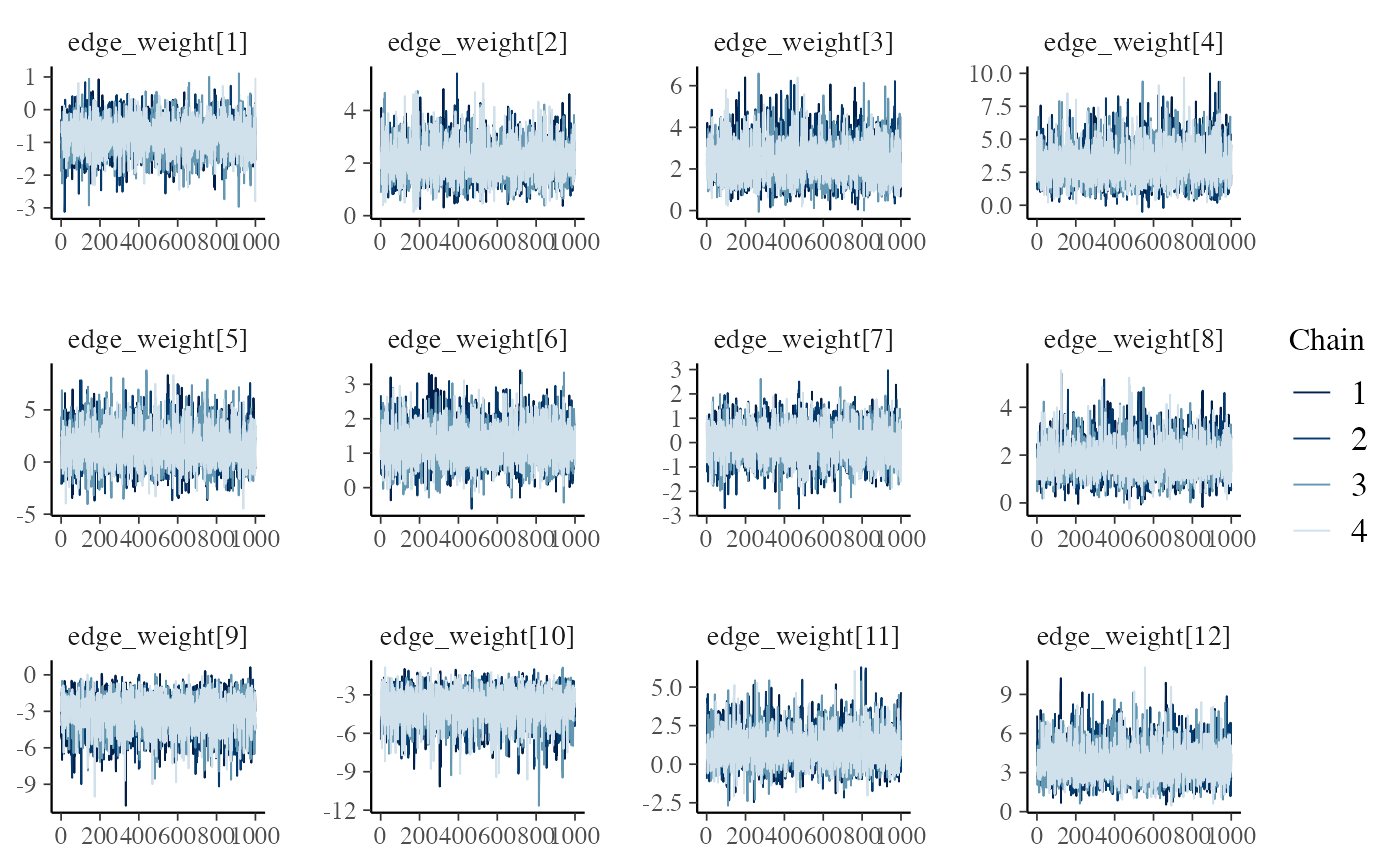
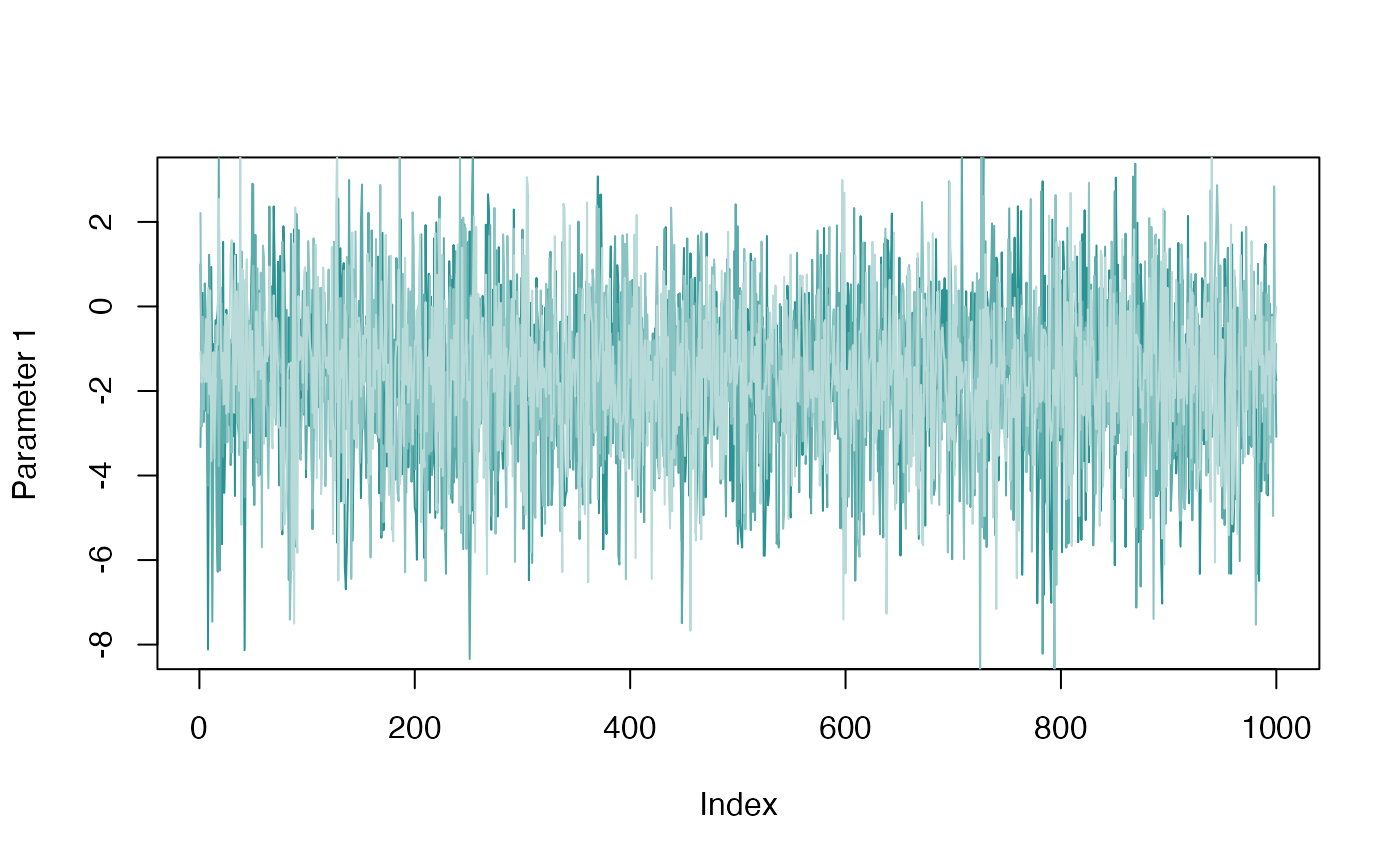
Improved plots and color scheme.

diff --git a/docs/articles/getting_started.html b/docs/articles/getting_started.html
@@ -33,7 +33,7 @@
     
     <a class="navbar-brand me-2" href="../index.html">bisonR</a>
 
-    <small class="nav-text text-muted me-auto" data-bs-toggle="tooltip" data-bs-placement="bottom" title="">0.1.0</small>
+    <small class="nav-text text-muted me-auto" data-bs-toggle="tooltip" data-bs-placement="bottom" title="">0.2.0</small>
 
     
     <button class="navbar-toggler" type="button" data-bs-toggle="collapse" data-bs-target="#navbar" aria-controls="navbar" aria-expanded="false" aria-label="Toggle navigation">
@@ -108,8 +108,8 @@ following code:</p>
 <span class="co">#&gt; Loading required package: cmdstanr</span>
 <span class="co">#&gt; This is cmdstanr version 0.5.2</span>
 <span class="co">#&gt; - CmdStanR documentation and vignettes: mc-stan.org/cmdstanr</span>
-<span class="co">#&gt; - CmdStan path: /Users/jordan/.cmdstan/cmdstan-2.29.2</span>
-<span class="co">#&gt; - CmdStan version: 2.29.2</span>
+<span class="co">#&gt; - CmdStan path: /Users/jordan/.cmdstan/cmdstan-2.30.0</span>
+<span class="co">#&gt; - CmdStan version: 2.30.0</span>
 <span class="kw"><a href="https://rdrr.io/r/base/library.html" class="external-link">library</a></span><span class="op">(</span><span class="va"><a href="https://dplyr.tidyverse.org" class="external-link">dplyr</a></span><span class="op">)</span>
 <span class="co">#&gt; </span>
 <span class="co">#&gt; Attaching package: 'dplyr'</span>
@@ -130,13 +130,13 @@ included.</p>
 <code class="sourceCode R"><span class="va">sim_data</span> <span class="op">&lt;-</span> <span class="fu"><a href="../reference/simulate_edge_model.html">simulate_edge_model</a></span><span class="op">(</span><span class="st">"binary"</span>, aggregated <span class="op">=</span> <span class="cn">FALSE</span><span class="op">)</span>
 <span class="va">df</span> <span class="op">&lt;-</span> <span class="va">sim_data</span><span class="op">$</span><span class="va">df_sim</span>
 <span class="fu"><a href="https://rdrr.io/r/utils/head.html" class="external-link">head</a></span><span class="op">(</span><span class="va">df</span><span class="op">)</span>
-<span class="co">#&gt;   event node_1_id node_2_id   age_diff   age_1    age_2 location duration</span>
-<span class="co">#&gt; 1     1         1         2 -0.4548211 21.7542 22.20902        2        1</span>
-<span class="co">#&gt; 2     0         1         2 -0.4548211 21.7542 22.20902        2        1</span>
-<span class="co">#&gt; 3     1         1         2 -0.4548211 21.7542 22.20902        3        1</span>
-<span class="co">#&gt; 4     0         1         2 -0.4548211 21.7542 22.20902        3        1</span>
-<span class="co">#&gt; 5     0         1         2 -0.4548211 21.7542 22.20902        2        1</span>
-<span class="co">#&gt; 6     0         1         2 -0.4548211 21.7542 22.20902        4        1</span></code></pre></div>
+<span class="co">#&gt;   event node_1_id node_2_id  age_diff    age_1    age_2 location duration</span>
+<span class="co">#&gt; 1     0         1         2 -3.223550 16.52894 19.75249        5        1</span>
+<span class="co">#&gt; 2     0         1         3 -4.748927 16.52894 21.27787        4        1</span>
+<span class="co">#&gt; 3     0         1         3 -4.748927 16.52894 21.27787        4        1</span>
+<span class="co">#&gt; 4     0         1         3 -4.748927 16.52894 21.27787        3        1</span>
+<span class="co">#&gt; 5     1         1         4 -4.358646 16.52894 20.88759        1        1</span>
+<span class="co">#&gt; 6     0         1         4 -4.358646 16.52894 20.88759        4        1</span></code></pre></div>
 </div>
 <div class="section level2">
 <h2 id="edge-models">Edge Models<a class="anchor" aria-label="anchor" href="#edge-models"></a>
@@ -176,7 +176,7 @@ normal distribution with mean zero and standard deviation 1 is not
 appropriate for the fixed effects, and we’d prefer a standard deviation
 of 2, we can change this using the following code:</p>
 <div class="sourceCode" id="cb5"><pre class="downlit sourceCode r">
-<code class="sourceCode R"><span class="va">priors</span><span class="op">$</span><span class="va">fixed</span> <span class="op">&lt;-</span> <span class="st">"normal(0, 2.5)"</span>
+<code class="sourceCode R"><span class="va">priors</span><span class="op">$</span><span class="va">edge</span> <span class="op">&lt;-</span> <span class="st">"normal(0, 2.5)"</span>
 <span class="va">priors</span>
 <span class="co">#&gt; $edge</span>
 <span class="co">#&gt; [1] "normal(0, 2.5)"</span>
@@ -228,40 +228,19 @@ weight model:</p>
 <code class="sourceCode R"><span class="va">fit_edge</span> <span class="op">&lt;-</span> <span class="fu"><a href="../reference/edge_model.html">edge_model</a></span><span class="op">(</span>
   <span class="op">(</span><span class="va">event</span> <span class="op">|</span> <span class="va">duration</span><span class="op">)</span> <span class="op">~</span> <span class="fu">dyad</span><span class="op">(</span><span class="va">node_1_id</span>, <span class="va">node_2_id</span><span class="op">)</span>, 
   data<span class="op">=</span><span class="va">df</span>, 
-  data_type<span class="op">=</span><span class="st">"binary"</span>, 
+  data_type<span class="op">=</span><span class="st">"binary"</span>,
   priors<span class="op">=</span><span class="va">priors</span>
 <span class="op">)</span>
-<span class="co">#&gt; $prior_edge_mu</span>
-<span class="co">#&gt; [1] 0</span>
-<span class="co">#&gt; </span>
-<span class="co">#&gt; $prior_edge_sigma</span>
-<span class="co">#&gt; [1] 2.5</span>
-<span class="co">#&gt; </span>
-<span class="co">#&gt; $prior_fixed_mu</span>
-<span class="co">#&gt; [1] 0</span>
-<span class="co">#&gt; </span>
-<span class="co">#&gt; $prior_fixed_sigma</span>
-<span class="co">#&gt; [1] 2.5</span>
-<span class="co">#&gt; </span>
-<span class="co">#&gt; $prior_random_mean_mu</span>
-<span class="co">#&gt; [1] 0</span>
-<span class="co">#&gt; </span>
-<span class="co">#&gt; $prior_random_mean_sigma</span>
-<span class="co">#&gt; [1] 1</span>
-<span class="co">#&gt; </span>
-<span class="co">#&gt; $prior_random_std_sigma</span>
-<span class="co">#&gt; [1] 1</span>
-<span class="co">#&gt; </span>
 <span class="co">#&gt; Running MCMC with 4 parallel chains...</span>
 <span class="co">#&gt; </span>
-<span class="co">#&gt; Chain 3 finished in 0.6 seconds.</span>
-<span class="co">#&gt; Chain 4 finished in 0.6 seconds.</span>
-<span class="co">#&gt; Chain 1 finished in 0.6 seconds.</span>
-<span class="co">#&gt; Chain 2 finished in 0.6 seconds.</span>
+<span class="co">#&gt; Chain 1 finished in 0.2 seconds.</span>
+<span class="co">#&gt; Chain 2 finished in 0.2 seconds.</span>
+<span class="co">#&gt; Chain 3 finished in 0.2 seconds.</span>
+<span class="co">#&gt; Chain 4 finished in 0.2 seconds.</span>
 <span class="co">#&gt; </span>
 <span class="co">#&gt; All 4 chains finished successfully.</span>
-<span class="co">#&gt; Mean chain execution time: 0.6 seconds.</span>
-<span class="co">#&gt; Total execution time: 0.9 seconds.</span></code></pre></div>
+<span class="co">#&gt; Mean chain execution time: 0.2 seconds.</span>
+<span class="co">#&gt; Total execution time: 0.6 seconds.</span></code></pre></div>
 <p>Depending on your dataset this can take anywhere between a few tenths
 of a second and several hours. In particular if you have a large dataset
 and no observation-level predictors, it’s probably a good idea to use
@@ -276,7 +255,7 @@ checking the traceplots to check the MCMC chains have converged. The
 chains should be well-mixed and look something like a fuzzy caterpillar.
 We can check for this using the <code><a href="../reference/plot_trace.html">plot_trace()</a></code> function:</p>
 <div class="sourceCode" id="cb7"><pre class="downlit sourceCode r">
-<code class="sourceCode R"><span class="fu"><a href="../reference/plot_trace.html">plot_trace</a></span><span class="op">(</span><span class="va">fit_edge</span><span class="op">)</span></code></pre></div>
+<code class="sourceCode R"><span class="fu"><a href="../reference/plot_trace.html">plot_trace</a></span><span class="op">(</span><span class="va">fit_edge</span>, par_ids<span class="op">=</span><span class="fl">1</span><span class="op">)</span></code></pre></div>
 <p><img src="getting_started_files/figure-html/unnamed-chunk-7-1.png" width="700"></p>
 <p>If we’re satisfied that the MCMC algorithm has done its job properly,
 then it’s time to see if the same is true for the model. One way to do
@@ -308,51 +287,51 @@ can use the <code><a href="https://mc-stan.org/cmdstanr/reference/fit-method-sum
 <span class="co">#&gt; Directed: FALSE</span>
 <span class="co">#&gt; === Edge list summary ===</span>
 <span class="co">#&gt;          median    5%   95%</span>
-<span class="co">#&gt; 1 &lt;-&gt; 2   0.313 0.154 0.509</span>
-<span class="co">#&gt; 1 &lt;-&gt; 3   0.888 0.742 0.967</span>
-<span class="co">#&gt; 2 &lt;-&gt; 3   0.912 0.740 0.984</span>
-<span class="co">#&gt; 1 &lt;-&gt; 4   0.955 0.765 0.997</span>
-<span class="co">#&gt; 2 &lt;-&gt; 4   0.821 0.217 0.992</span>
-<span class="co">#&gt; 3 &lt;-&gt; 4   0.779 0.594 0.905</span>
-<span class="co">#&gt; 1 &lt;-&gt; 5   0.499 0.239 0.766</span>
-<span class="co">#&gt; 2 &lt;-&gt; 5   0.862 0.685 0.962</span>
-<span class="co">#&gt; 3 &lt;-&gt; 5   0.047 0.002 0.246</span>
-<span class="co">#&gt; 4 &lt;-&gt; 5   0.022 0.002 0.112</span>
-<span class="co">#&gt; 1 &lt;-&gt; 6   0.737 0.350 0.959</span>
-<span class="co">#&gt; 2 &lt;-&gt; 6   0.975 0.870 0.998</span>
-<span class="co">#&gt; 3 &lt;-&gt; 6   0.034 0.003 0.188</span>
-<span class="co">#&gt; 4 &lt;-&gt; 6   0.029 0.002 0.142</span>
-<span class="co">#&gt; 5 &lt;-&gt; 6   0.876 0.710 0.966</span>
-<span class="co">#&gt; 1 &lt;-&gt; 7   0.952 0.724 0.997</span>
-<span class="co">#&gt; 2 &lt;-&gt; 7   0.888 0.407 0.995</span>
-<span class="co">#&gt; 3 &lt;-&gt; 7   0.442 0.213 0.700</span>
-<span class="co">#&gt; 4 &lt;-&gt; 7   0.069 0.012 0.205</span>
-<span class="co">#&gt; 5 &lt;-&gt; 7   0.950 0.733 0.997</span>
-<span class="co">#&gt; 6 &lt;-&gt; 7   0.877 0.642 0.978</span>
-<span class="co">#&gt; 1 &lt;-&gt; 8   0.388 0.214 0.586</span>
-<span class="co">#&gt; 2 &lt;-&gt; 8   0.023 0.002 0.113</span>
-<span class="co">#&gt; 3 &lt;-&gt; 8   0.177 0.008 0.771</span>
-<span class="co">#&gt; 4 &lt;-&gt; 8   0.020 0.002 0.100</span>
-<span class="co">#&gt; 5 &lt;-&gt; 8   0.115 0.006 0.575</span>
-<span class="co">#&gt; 6 &lt;-&gt; 8   0.152 0.025 0.438</span>
-<span class="co">#&gt; 7 &lt;-&gt; 8   0.107 0.006 0.560</span>
-<span class="co">#&gt; 1 &lt;-&gt; 9   0.849 0.566 0.972</span>
-<span class="co">#&gt; 2 &lt;-&gt; 9   0.972 0.847 0.998</span>
-<span class="co">#&gt; 3 &lt;-&gt; 9   0.031 0.002 0.160</span>
-<span class="co">#&gt; 4 &lt;-&gt; 9   0.026 0.002 0.140</span>
-<span class="co">#&gt; 5 &lt;-&gt; 9   0.973 0.869 0.998</span>
-<span class="co">#&gt; 6 &lt;-&gt; 9   0.066 0.004 0.358</span>
-<span class="co">#&gt; 7 &lt;-&gt; 9   0.336 0.103 0.653</span>
-<span class="co">#&gt; 8 &lt;-&gt; 9   0.816 0.200 0.993</span>
-<span class="co">#&gt; 1 &lt;-&gt; 10  0.923 0.773 0.986</span>
-<span class="co">#&gt; 2 &lt;-&gt; 10  0.977 0.871 0.998</span>
-<span class="co">#&gt; 3 &lt;-&gt; 10  0.472 0.287 0.665</span>
-<span class="co">#&gt; 4 &lt;-&gt; 10  0.506 0.154 0.845</span>
-<span class="co">#&gt; 5 &lt;-&gt; 10  0.847 0.693 0.946</span>
-<span class="co">#&gt; 6 &lt;-&gt; 10  0.698 0.438 0.887</span>
-<span class="co">#&gt; 7 &lt;-&gt; 10  0.085 0.005 0.446</span>
-<span class="co">#&gt; 8 &lt;-&gt; 10  0.978 0.894 0.999</span>
-<span class="co">#&gt; 9 &lt;-&gt; 10  0.939 0.827 0.988</span></code></pre></div>
+<span class="co">#&gt; 1 &lt;-&gt; 2   0.170 0.007 0.805</span>
+<span class="co">#&gt; 1 &lt;-&gt; 3   0.084 0.004 0.467</span>
+<span class="co">#&gt; 2 &lt;-&gt; 3   0.263 0.046 0.658</span>
+<span class="co">#&gt; 1 &lt;-&gt; 4   0.340 0.062 0.762</span>
+<span class="co">#&gt; 2 &lt;-&gt; 4   0.653 0.226 0.942</span>
+<span class="co">#&gt; 3 &lt;-&gt; 4   0.259 0.043 0.650</span>
+<span class="co">#&gt; 1 &lt;-&gt; 5   0.403 0.121 0.745</span>
+<span class="co">#&gt; 2 &lt;-&gt; 5   0.824 0.220 0.991</span>
+<span class="co">#&gt; 3 &lt;-&gt; 5   0.735 0.351 0.958</span>
+<span class="co">#&gt; 4 &lt;-&gt; 5   0.349 0.065 0.769</span>
+<span class="co">#&gt; 1 &lt;-&gt; 6   0.071 0.004 0.384</span>
+<span class="co">#&gt; 2 &lt;-&gt; 6   0.344 0.062 0.768</span>
+<span class="co">#&gt; 3 &lt;-&gt; 6   0.652 0.235 0.945</span>
+<span class="co">#&gt; 4 &lt;-&gt; 6   0.735 0.353 0.955</span>
+<span class="co">#&gt; 5 &lt;-&gt; 6   0.653 0.225 0.945</span>
+<span class="co">#&gt; 1 &lt;-&gt; 7   0.071 0.004 0.387</span>
+<span class="co">#&gt; 2 &lt;-&gt; 7   0.058 0.003 0.312</span>
+<span class="co">#&gt; 3 &lt;-&gt; 7   0.112 0.005 0.565</span>
+<span class="co">#&gt; 4 &lt;-&gt; 7   0.058 0.004 0.317</span>
+<span class="co">#&gt; 5 &lt;-&gt; 7   0.068 0.004 0.354</span>
+<span class="co">#&gt; 6 &lt;-&gt; 7   0.506 0.096 0.910</span>
+<span class="co">#&gt; 1 &lt;-&gt; 8   0.183 0.008 0.784</span>
+<span class="co">#&gt; 2 &lt;-&gt; 8   0.210 0.035 0.567</span>
+<span class="co">#&gt; 3 &lt;-&gt; 8   0.829 0.222 0.993</span>
+<span class="co">#&gt; 4 &lt;-&gt; 8   0.497 0.159 0.834</span>
+<span class="co">#&gt; 5 &lt;-&gt; 8   0.505 0.089 0.910</span>
+<span class="co">#&gt; 6 &lt;-&gt; 8   0.105 0.005 0.598</span>
+<span class="co">#&gt; 7 &lt;-&gt; 8   0.506 0.093 0.911</span>
+<span class="co">#&gt; 1 &lt;-&gt; 9   0.659 0.229 0.938</span>
+<span class="co">#&gt; 2 &lt;-&gt; 9   0.172 0.007 0.790</span>
+<span class="co">#&gt; 3 &lt;-&gt; 9   0.404 0.125 0.746</span>
+<span class="co">#&gt; 4 &lt;-&gt; 9   0.339 0.064 0.766</span>
+<span class="co">#&gt; 5 &lt;-&gt; 9   0.496 0.096 0.908</span>
+<span class="co">#&gt; 6 &lt;-&gt; 9   0.258 0.047 0.643</span>
+<span class="co">#&gt; 7 &lt;-&gt; 9   0.942 0.691 0.997</span>
+<span class="co">#&gt; 8 &lt;-&gt; 9   0.654 0.236 0.936</span>
+<span class="co">#&gt; 1 &lt;-&gt; 10  0.077 0.004 0.455</span>
+<span class="co">#&gt; 2 &lt;-&gt; 10  0.890 0.422 0.995</span>
+<span class="co">#&gt; 3 &lt;-&gt; 10  0.823 0.205 0.993</span>
+<span class="co">#&gt; 4 &lt;-&gt; 10  0.887 0.417 0.995</span>
+<span class="co">#&gt; 5 &lt;-&gt; 10  0.917 0.540 0.995</span>
+<span class="co">#&gt; 6 &lt;-&gt; 10  0.345 0.060 0.771</span>
+<span class="co">#&gt; 7 &lt;-&gt; 10  0.932 0.642 0.995</span>
+<span class="co">#&gt; 8 &lt;-&gt; 10  0.930 0.637 0.995</span>
+<span class="co">#&gt; 9 &lt;-&gt; 10  0.785 0.436 0.964</span></code></pre></div>
 <p>It can be hard to get an intuitive idea for what’s going on looking
 only at a summary table, so this is where it can be useful to visualise
 the network too. The <code><a href="../reference/plot_network.html">plot_network()</a></code> function does this for
@@ -360,7 +339,7 @@ BISoN edge weight models, where uncertainty is shown on edge weights.
 Uncertainty is visualised by showing the lower and upper bounds as
 overlapping edges in the network.</p>
 <div class="sourceCode" id="cb10"><pre class="downlit sourceCode r">
-<code class="sourceCode R"><span class="fu"><a href="../reference/plot_network.html">plot_network</a></span><span class="op">(</span><span class="va">fit_edge</span>, lwd<span class="op">=</span><span class="fl">5</span><span class="op">)</span></code></pre></div>
+<code class="sourceCode R"><span class="fu"><a href="../reference/plot_network.html">plot_network</a></span><span class="op">(</span><span class="va">fit_edge</span>, lwd<span class="op">=</span><span class="fl">1</span><span class="op">)</span></code></pre></div>
 <p><img src="getting_started_files/figure-html/unnamed-chunk-10-1.png" width="700"></p>
 <p>Now that we have a fitted edge weight model we’re happy with, we can
 start to look at downstream analyses. The first of these we’ll consider
@@ -422,10 +401,10 @@ here.</p>
 <span class="co">#&gt; Chain 2 Iteration:    1 / 2000 [  0%]  (Warmup) </span>
 <span class="co">#&gt; Chain 3 Iteration:    1 / 2000 [  0%]  (Warmup) </span>
 <span class="co">#&gt; Chain 4 Iteration:    1 / 2000 [  0%]  (Warmup) </span>
+<span class="co">#&gt; Chain 1 Iteration:  500 / 2000 [ 25%]  (Warmup) </span>
 <span class="co">#&gt; Chain 2 Iteration:  500 / 2000 [ 25%]  (Warmup) </span>
 <span class="co">#&gt; Chain 3 Iteration:  500 / 2000 [ 25%]  (Warmup) </span>
 <span class="co">#&gt; Chain 4 Iteration:  500 / 2000 [ 25%]  (Warmup) </span>
-<span class="co">#&gt; Chain 1 Iteration:  500 / 2000 [ 25%]  (Warmup) </span>
 <span class="co">#&gt; Chain 1 Iteration: 1000 / 2000 [ 50%]  (Warmup) </span>
 <span class="co">#&gt; Chain 1 Iteration: 1001 / 2000 [ 50%]  (Sampling) </span>
 <span class="co">#&gt; Chain 2 Iteration: 1000 / 2000 [ 50%]  (Warmup) </span>
@@ -434,10 +413,10 @@ here.</p>
 <span class="co">#&gt; Chain 3 Iteration: 1001 / 2000 [ 50%]  (Sampling) </span>
 <span class="co">#&gt; Chain 4 Iteration: 1000 / 2000 [ 50%]  (Warmup) </span>
 <span class="co">#&gt; Chain 4 Iteration: 1001 / 2000 [ 50%]  (Sampling) </span>
+<span class="co">#&gt; Chain 1 Iteration: 1500 / 2000 [ 75%]  (Sampling) </span>
 <span class="co">#&gt; Chain 2 Iteration: 1500 / 2000 [ 75%]  (Sampling) </span>
 <span class="co">#&gt; Chain 3 Iteration: 1500 / 2000 [ 75%]  (Sampling) </span>
 <span class="co">#&gt; Chain 4 Iteration: 1500 / 2000 [ 75%]  (Sampling) </span>
-<span class="co">#&gt; Chain 1 Iteration: 1500 / 2000 [ 75%]  (Sampling) </span>
 <span class="co">#&gt; Chain 1 Iteration: 2000 / 2000 [100%]  (Sampling) </span>
 <span class="co">#&gt; Chain 2 Iteration: 2000 / 2000 [100%]  (Sampling) </span>
 <span class="co">#&gt; Chain 3 Iteration: 2000 / 2000 [100%]  (Sampling) </span>
@@ -454,8 +433,8 @@ here.</p>
 makes good predictions. This can be done in exactly the same way as last
 time:</p>
 <div class="sourceCode" id="cb13"><pre class="downlit sourceCode r">
-<code class="sourceCode R"><span class="fu"><a href="../reference/plot_trace.html">plot_trace</a></span><span class="op">(</span><span class="va">fit_dyadic</span><span class="op">)</span></code></pre></div>
-<p><img src="getting_started_files/figure-html/unnamed-chunk-13-1.png" width="700"></p>
+<code class="sourceCode R"><span class="fu"><a href="../reference/plot_trace.html">plot_trace</a></span><span class="op">(</span><span class="va">fit_dyadic</span>, par_ids<span class="op">=</span><span class="fl">1</span><span class="op">)</span></code></pre></div>
+<p><img src="getting_started_files/figure-html/unnamed-chunk-13-1.png" width="700"><img src="getting_started_files/figure-html/unnamed-chunk-13-2.png" width="700"></p>
 <div class="sourceCode" id="cb14"><pre class="downlit sourceCode r">
 <code class="sourceCode R"><span class="fu"><a href="../reference/plot_predictions.html">plot_predictions</a></span><span class="op">(</span><span class="va">fit_dyadic</span>, num_draws<span class="op">=</span><span class="fl">20</span><span class="op">)</span></code></pre></div>
 <p><img src="getting_started_files/figure-html/unnamed-chunk-14-1.png" width="700"></p>
@@ -471,8 +450,8 @@ See here for more information on how categories are handled in
 <span class="co">#&gt; Number of dyads: 45</span>
 <span class="co">#&gt; === Coefficient summary ===                </span>
 <span class="co">#&gt; variable            50%     5%   95%</span>
-<span class="co">#&gt;   intercept      -0.022 -0.333 0.274</span>
-<span class="co">#&gt;   fixed_age_diff  0.635  0.532 0.734</span></code></pre></div>
+<span class="co">#&gt;   intercept      -0.056 -0.401 0.296</span>
+<span class="co">#&gt;   fixed_age_diff  0.383  0.268 0.497</span></code></pre></div>
 <p>Now we’ve seen how to fit a dyadic regression, the next common type
 of analysis is nodal regression.</p>
 </div>
@@ -493,16 +472,16 @@ matrix using <code>dplyr</code>:</p>
   <span class="fu"><a href="https://dplyr.tidyverse.org/reference/distinct.html" class="external-link">distinct</a></span><span class="op">(</span><span class="va">node_id</span>, <span class="va">age</span><span class="op">)</span>
 <span class="va">df_nodal</span>
 <span class="co">#&gt;    node_id      age</span>
-<span class="co">#&gt; 1        1 21.75420</span>
-<span class="co">#&gt; 2        2 22.20902</span>
-<span class="co">#&gt; 3        3 17.55995</span>
-<span class="co">#&gt; 4        4 15.86083</span>
-<span class="co">#&gt; 5        5 20.45247</span>
-<span class="co">#&gt; 6        6 18.92600</span>
-<span class="co">#&gt; 7        7 17.01099</span>
-<span class="co">#&gt; 8        8 23.57351</span>
-<span class="co">#&gt; 9        9 19.82043</span>
-<span class="co">#&gt; 10      10 17.39718</span></code></pre></div>
+<span class="co">#&gt; 1        1 16.52894</span>
+<span class="co">#&gt; 2        2 19.75249</span>
+<span class="co">#&gt; 3        3 21.27787</span>
+<span class="co">#&gt; 4        4 20.88759</span>
+<span class="co">#&gt; 5        5 20.11007</span>
+<span class="co">#&gt; 6        6 19.68622</span>
+<span class="co">#&gt; 7        7 24.27315</span>
+<span class="co">#&gt; 8        8 22.12805</span>
+<span class="co">#&gt; 9        9 20.12087</span>
+<span class="co">#&gt; 10      10 17.05398</span></code></pre></div>
 <p>Priors can be set in the exact same way as for the
 <code><a href="../reference/dyadic_regression.html">dyadic_regression()</a></code> function:</p>
 <div class="sourceCode" id="cb17"><pre class="downlit sourceCode r">
@@ -534,43 +513,43 @@ are available. See the documentation here for further details.</p>
 <code class="sourceCode R"><span class="va">fit_nodal</span> <span class="op">&lt;-</span> <span class="fu"><a href="../reference/nodal_regression.html">nodal_regression</a></span><span class="op">(</span><span class="fu">strength</span><span class="op">(</span><span class="va">node_id</span><span class="op">)</span> <span class="op">~</span> <span class="va">age</span>, <span class="va">fit_edge</span>, <span class="va">df_nodal</span>, priors<span class="op">=</span><span class="va">priors</span><span class="op">)</span>
 <span class="co">#&gt; Running MCMC with 4 parallel chains...</span>
 <span class="co">#&gt; </span>
-<span class="co">#&gt; Chain 1 Iteration:    1 / 2000 [  0%]  (Warmup)</span>
-<span class="co">#&gt; Chain 1 Informational Message: The current Metropolis proposal is about to be rejected because of the following issue:</span>
-<span class="co">#&gt; Chain 1 Exception: multi_normal_lpdf: LDLT_Factor of covariance parameter is not positive definite.  last conditional variance is nan. (in '/var/folders/1t/s8y7czq113g2f7xb0q27lsyh0000gn/T/RtmpPjqFUX/model-14caa5bdb04ca.stan', line 34, column 2 to column 94)</span>
-<span class="co">#&gt; Chain 1 If this warning occurs sporadically, such as for highly constrained variable types like covariance matrices, then the sampler is fine,</span>
-<span class="co">#&gt; Chain 1 but if this warning occurs often then your model may be either severely ill-conditioned or misspecified.</span>
-<span class="co">#&gt; Chain 1</span>
-<span class="co">#&gt; Chain 2 Iteration:    1 / 2000 [  0%]  (Warmup) </span>
-<span class="co">#&gt; Chain 3 Iteration:    1 / 2000 [  0%]  (Warmup) </span>
-<span class="co">#&gt; Chain 4 Iteration:    1 / 2000 [  0%]  (Warmup) </span>
+<span class="co">#&gt; Chain 1 Iteration:    1 / 2000 [  0%]  (Warmup) </span>
 <span class="co">#&gt; Chain 1 Iteration:  500 / 2000 [ 25%]  (Warmup) </span>
+<span class="co">#&gt; Chain 2 Iteration:    1 / 2000 [  0%]  (Warmup) </span>
+<span class="co">#&gt; Chain 2 Iteration:  500 / 2000 [ 25%]  (Warmup)</span>
+<span class="co">#&gt; Chain 2 Informational Message: The current Metropolis proposal is about to be rejected because of the following issue:</span>
+<span class="co">#&gt; Chain 2 Exception: multi_normal_lpdf: LDLT_Factor of covariance parameter is not positive definite.  last conditional variance is nan. (in '/var/folders/1t/s8y7czq113g2f7xb0q27lsyh0000gn/T/Rtmpwvomcn/model-230959c3219f.stan', line 34, column 2 to column 94)</span>
+<span class="co">#&gt; Chain 2 If this warning occurs sporadically, such as for highly constrained variable types like covariance matrices, then the sampler is fine,</span>
+<span class="co">#&gt; Chain 2 but if this warning occurs often then your model may be either severely ill-conditioned or misspecified.</span>
+<span class="co">#&gt; Chain 2</span>
+<span class="co">#&gt; Chain 3 Iteration:    1 / 2000 [  0%]  (Warmup) </span>
+<span class="co">#&gt; Chain 3 Iteration:  500 / 2000 [ 25%]  (Warmup) </span>
+<span class="co">#&gt; Chain 4 Iteration:    1 / 2000 [  0%]  (Warmup) </span>
+<span class="co">#&gt; Chain 4 Iteration:  500 / 2000 [ 25%]  (Warmup) </span>
 <span class="co">#&gt; Chain 1 Iteration: 1000 / 2000 [ 50%]  (Warmup) </span>
 <span class="co">#&gt; Chain 1 Iteration: 1001 / 2000 [ 50%]  (Sampling) </span>
-<span class="co">#&gt; Chain 2 Iteration:  500 / 2000 [ 25%]  (Warmup) </span>
+<span class="co">#&gt; Chain 1 Iteration: 1500 / 2000 [ 75%]  (Sampling) </span>
 <span class="co">#&gt; Chain 2 Iteration: 1000 / 2000 [ 50%]  (Warmup) </span>
 <span class="co">#&gt; Chain 2 Iteration: 1001 / 2000 [ 50%]  (Sampling) </span>
-<span class="co">#&gt; Chain 3 Iteration:  500 / 2000 [ 25%]  (Warmup) </span>
+<span class="co">#&gt; Chain 2 Iteration: 1500 / 2000 [ 75%]  (Sampling) </span>
 <span class="co">#&gt; Chain 3 Iteration: 1000 / 2000 [ 50%]  (Warmup) </span>
 <span class="co">#&gt; Chain 3 Iteration: 1001 / 2000 [ 50%]  (Sampling) </span>
-<span class="co">#&gt; Chain 4 Iteration:  500 / 2000 [ 25%]  (Warmup) </span>
+<span class="co">#&gt; Chain 3 Iteration: 1500 / 2000 [ 75%]  (Sampling) </span>
 <span class="co">#&gt; Chain 4 Iteration: 1000 / 2000 [ 50%]  (Warmup) </span>
 <span class="co">#&gt; Chain 4 Iteration: 1001 / 2000 [ 50%]  (Sampling) </span>
-<span class="co">#&gt; Chain 1 Iteration: 1500 / 2000 [ 75%]  (Sampling) </span>
-<span class="co">#&gt; Chain 1 Iteration: 2000 / 2000 [100%]  (Sampling) </span>
-<span class="co">#&gt; Chain 2 Iteration: 1500 / 2000 [ 75%]  (Sampling) </span>
-<span class="co">#&gt; Chain 2 Iteration: 2000 / 2000 [100%]  (Sampling) </span>
-<span class="co">#&gt; Chain 3 Iteration: 1500 / 2000 [ 75%]  (Sampling) </span>
-<span class="co">#&gt; Chain 3 Iteration: 2000 / 2000 [100%]  (Sampling) </span>
 <span class="co">#&gt; Chain 4 Iteration: 1500 / 2000 [ 75%]  (Sampling) </span>
+<span class="co">#&gt; Chain 1 Iteration: 2000 / 2000 [100%]  (Sampling) </span>
+<span class="co">#&gt; Chain 2 Iteration: 2000 / 2000 [100%]  (Sampling) </span>
+<span class="co">#&gt; Chain 3 Iteration: 2000 / 2000 [100%]  (Sampling) </span>
 <span class="co">#&gt; Chain 4 Iteration: 2000 / 2000 [100%]  (Sampling) </span>
-<span class="co">#&gt; Chain 1 finished in 0.2 seconds.</span>
-<span class="co">#&gt; Chain 2 finished in 0.2 seconds.</span>
-<span class="co">#&gt; Chain 3 finished in 0.2 seconds.</span>
-<span class="co">#&gt; Chain 4 finished in 0.2 seconds.</span>
+<span class="co">#&gt; Chain 1 finished in 0.3 seconds.</span>
+<span class="co">#&gt; Chain 2 finished in 0.3 seconds.</span>
+<span class="co">#&gt; Chain 3 finished in 0.3 seconds.</span>
+<span class="co">#&gt; Chain 4 finished in 0.3 seconds.</span>
 <span class="co">#&gt; </span>
 <span class="co">#&gt; All 4 chains finished successfully.</span>
-<span class="co">#&gt; Mean chain execution time: 0.2 seconds.</span>
-<span class="co">#&gt; Total execution time: 0.4 seconds.</span>
+<span class="co">#&gt; Mean chain execution time: 0.3 seconds.</span>
+<span class="co">#&gt; Total execution time: 0.5 seconds.</span>
 <span class="co">#&gt; Warning: 1 of 4000 (0.0%) transitions ended with a divergence.</span>
 <span class="co">#&gt; See https://mc-stan.org/misc/warnings for details.</span></code></pre></div>
 <p>Once the model has been fitted, we need to employ the same diagnostic
@@ -579,8 +558,8 @@ little tedious, and it won’t always go smoothly, but it’s a vital part
 of model fitting that is essential for reliable inferences, even in
 frequentist statistics.</p>
 <div class="sourceCode" id="cb19"><pre class="downlit sourceCode r">
-<code class="sourceCode R"><span class="fu"><a href="../reference/plot_trace.html">plot_trace</a></span><span class="op">(</span><span class="va">fit_nodal</span><span class="op">)</span></code></pre></div>
-<p><img src="getting_started_files/figure-html/unnamed-chunk-19-1.png" width="700"></p>
+<code class="sourceCode R"><span class="fu"><a href="../reference/plot_trace.html">plot_trace</a></span><span class="op">(</span><span class="va">fit_nodal</span>, par_ids<span class="op">=</span><span class="fl">1</span><span class="op">)</span></code></pre></div>
+<p><img src="getting_started_files/figure-html/unnamed-chunk-19-1.png" width="700"><img src="getting_started_files/figure-html/unnamed-chunk-19-2.png" width="700"></p>
 <div class="sourceCode" id="cb20"><pre class="downlit sourceCode r">
 <code class="sourceCode R"><span class="fu"><a href="../reference/plot_predictions.html">plot_predictions</a></span><span class="op">(</span><span class="va">fit_nodal</span>, num_draws<span class="op">=</span><span class="fl">20</span><span class="op">)</span></code></pre></div>
 <p><img src="getting_started_files/figure-html/unnamed-chunk-20-1.png" width="700"></p>
@@ -588,13 +567,13 @@ frequentist statistics.</p>
 coefficients using the <code><a href="https://mc-stan.org/cmdstanr/reference/fit-method-summary.html" class="external-link">summary()</a></code> function:</p>
 <div class="sourceCode" id="cb21"><pre class="downlit sourceCode r">
 <code class="sourceCode R"><span class="fu"><a href="https://mc-stan.org/cmdstanr/reference/fit-method-summary.html" class="external-link">summary</a></span><span class="op">(</span><span class="va">fit_nodal</span><span class="op">)</span>
-<span class="co">#&gt; === Fitted nodal regression model ===</span>
+<span class="co">#&gt; === Fitted dyadic regression model ===</span>
 <span class="co">#&gt; Formula: strength(node_id) ~ age</span>
-<span class="co">#&gt; Number of nodes: 10</span>
+<span class="co">#&gt; Number of dyads: 45</span>
 <span class="co">#&gt; === Coefficient summary ===           </span>
-<span class="co">#&gt; variable       50%     5%   95%</span>
-<span class="co">#&gt;   intercept -0.636 -3.975 2.939</span>
-<span class="co">#&gt;   fixed_age  0.034 -0.153 0.206</span></code></pre></div>
+<span class="co">#&gt; variable       50%     5%  95%</span>
+<span class="co">#&gt;   intercept  0.408 -2.874 3.72</span>
+<span class="co">#&gt;   fixed_age -0.019 -0.187 0.14</span></code></pre></div>
 </div>
 <div class="section level2">
 <h2 id="conclusion">Conclusion<a class="anchor" aria-label="anchor" href="#conclusion"></a>

diff --git a/docs/articles/index.html b/docs/articles/index.html
@@ -10,7 +10,7 @@
     
     <a class="navbar-brand me-2" href="../index.html">bisonR</a>
 
-    <small class="nav-text text-muted me-auto" data-bs-toggle="tooltip" data-bs-placement="bottom" title="">0.1.0</small>
+    <small class="nav-text text-muted me-auto" data-bs-toggle="tooltip" data-bs-placement="bottom" title="">0.2.0</small>
 
     
     <button class="navbar-toggler" type="button" data-bs-toggle="collapse" data-bs-target="#navbar" aria-controls="navbar" aria-expanded="false" aria-label="Toggle navigation">
